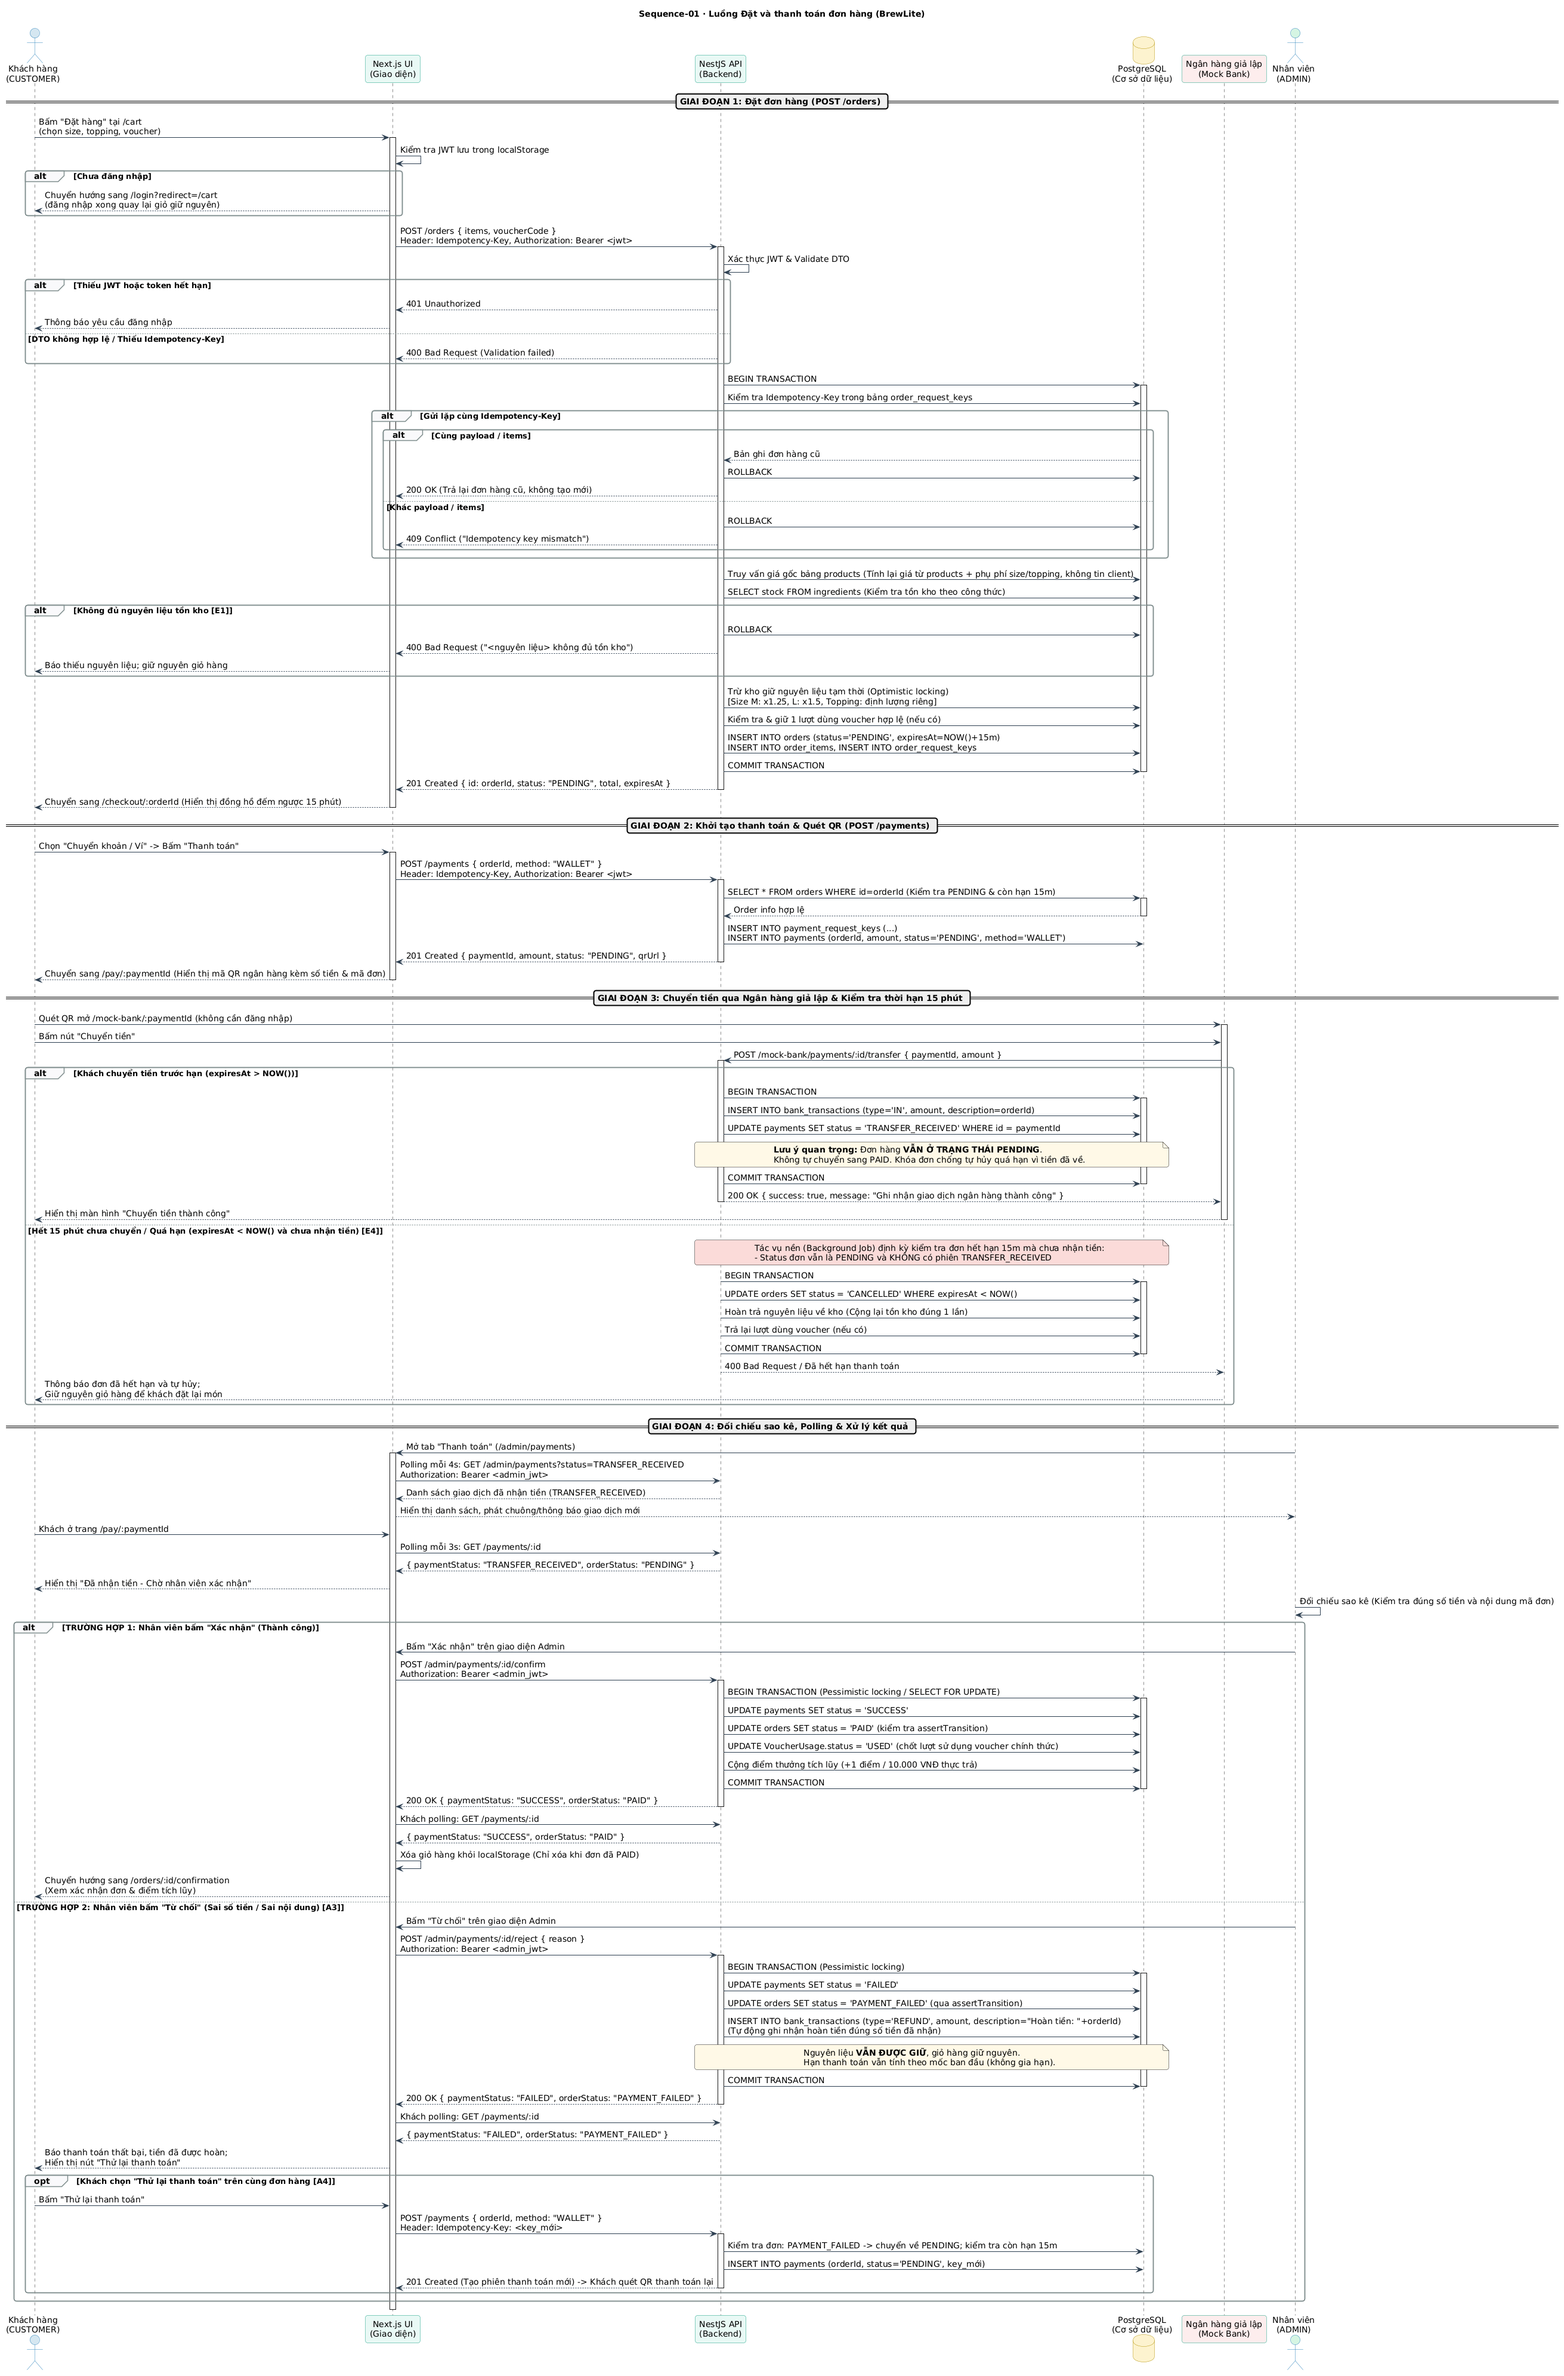
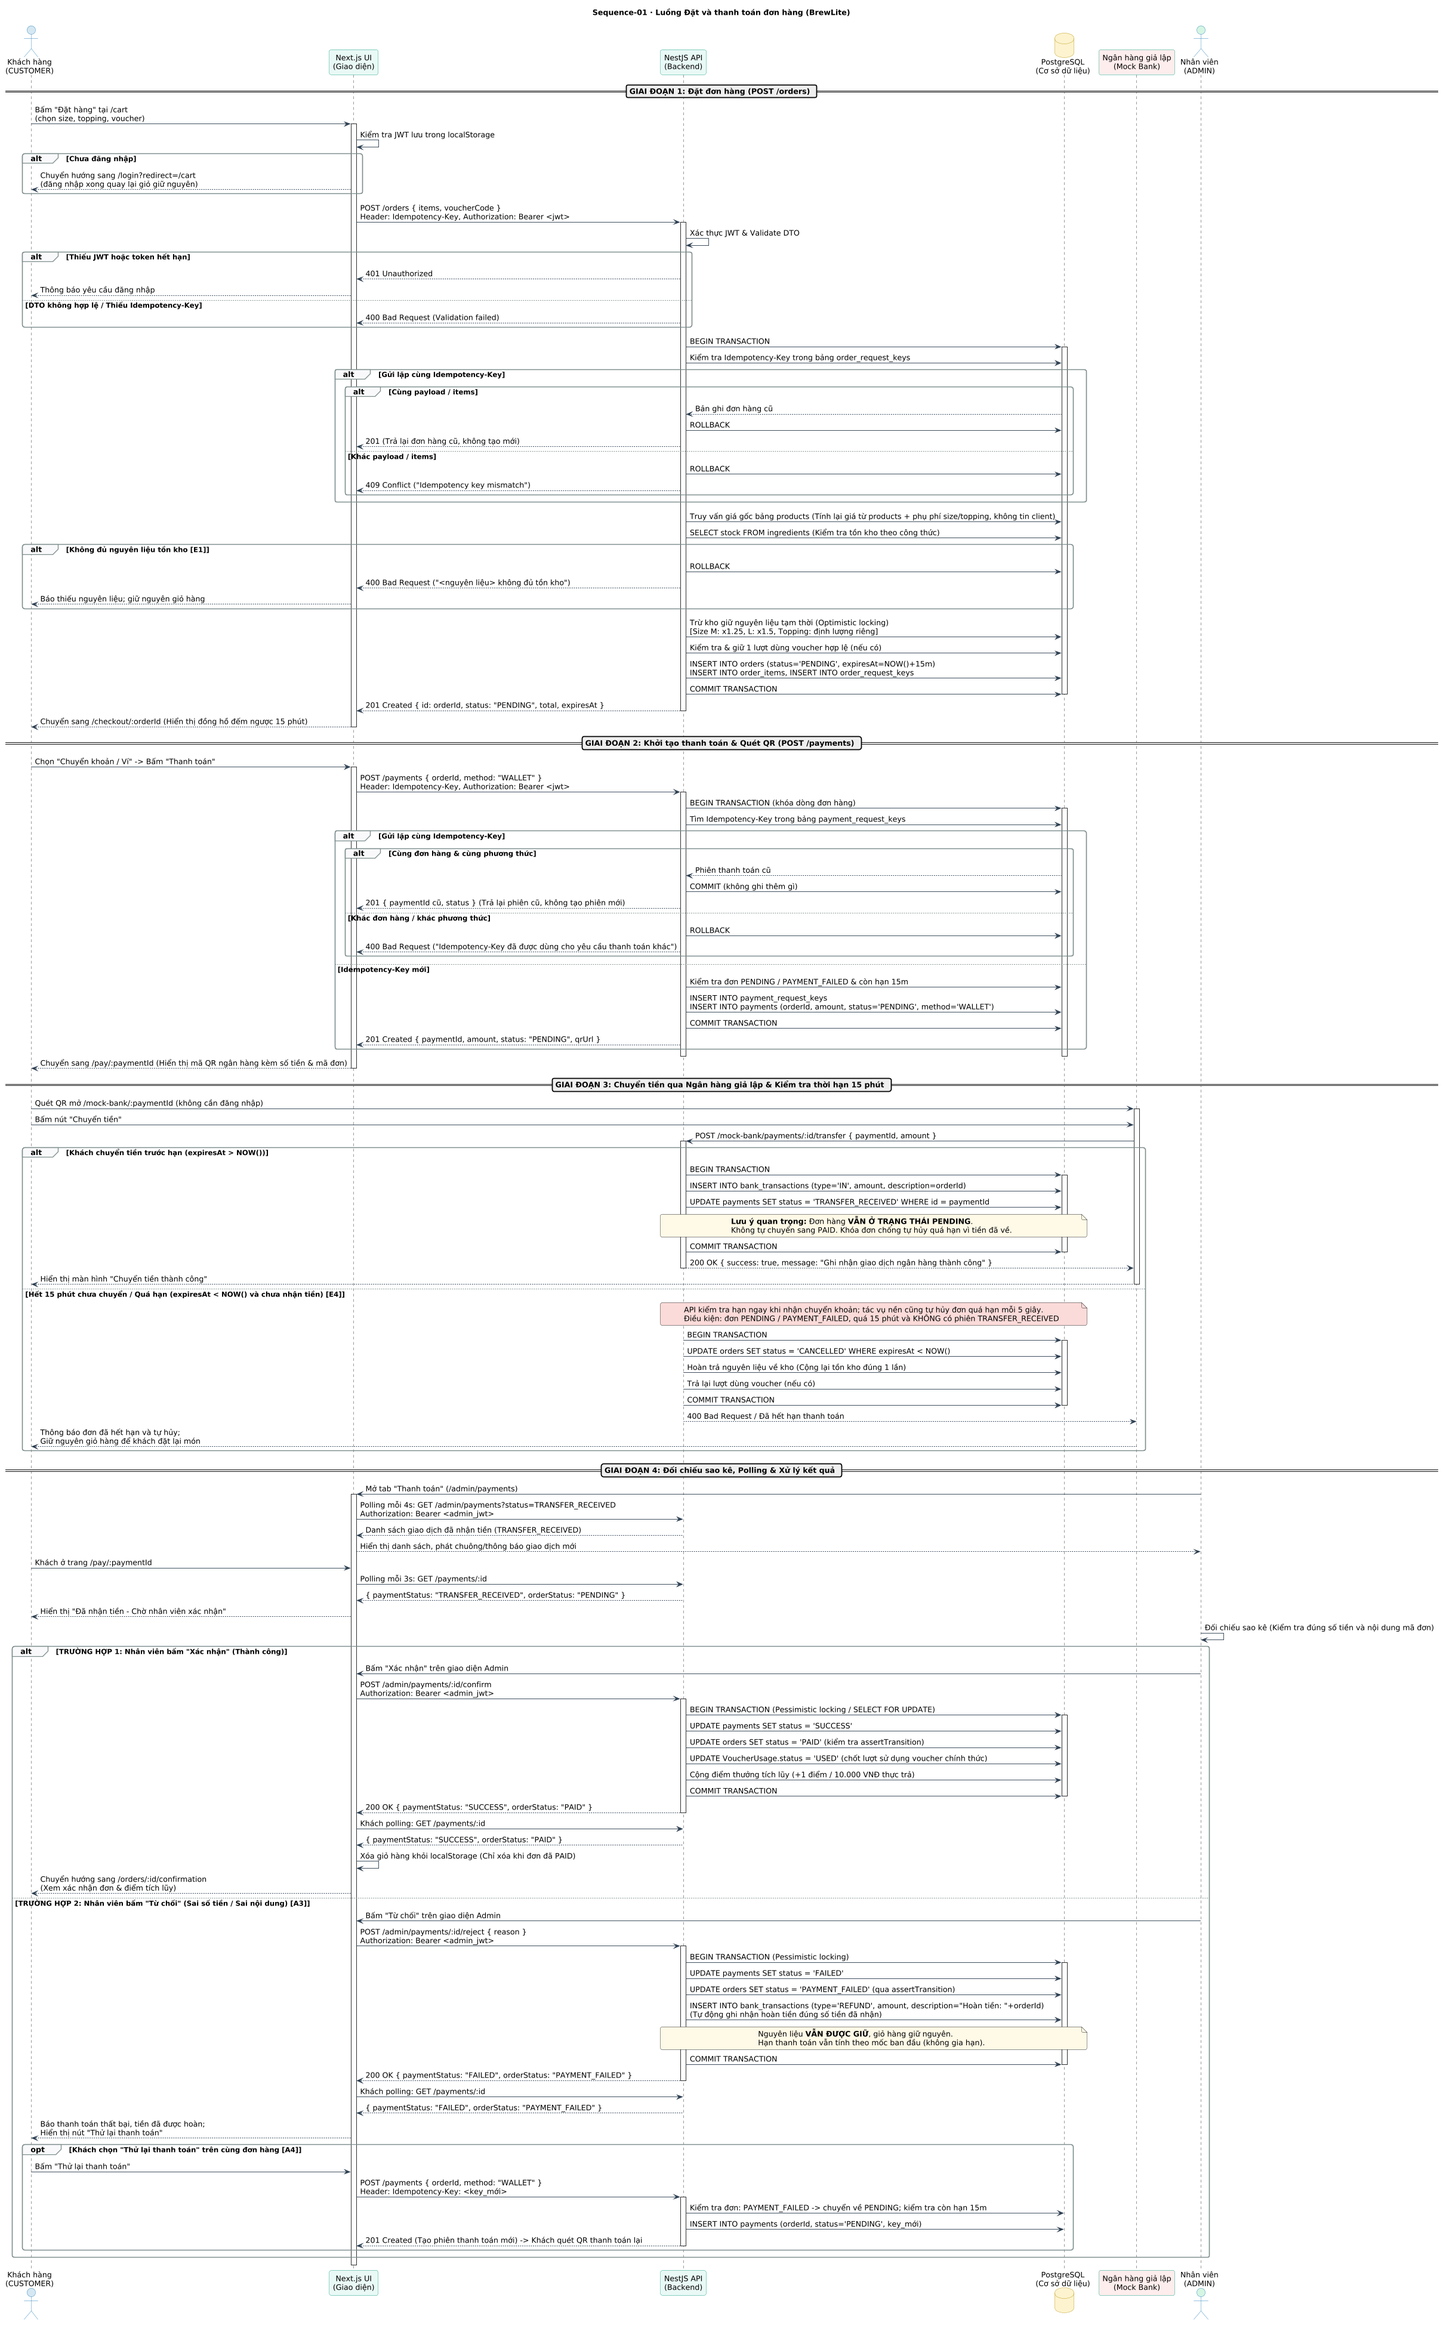
docs(diagrams): sửa giúp Tài - idempotency thanh toán và ma trận truy vết (Task 2.2)
- Giai đoạn 2: thêm alt cho POST /payments gửi lại cùng Idempotency-Key
  (cùng đơn và phương thức → trả phiên cũ; khác → 400), đúng code A1
- Đặt đơn gửi lại cùng key trả 201 (không phải 200), như test e2e A1
- Ghi chú hết hạn: API kiểm tra hạn khi nhận chuyển khoản, job nền chạy mỗi 5 giây
- scale 0.9 để PNG không bị plantuml.com cắt ở 4096 px; xuất lại PNG + SVG
- sequence.tex: thêm câu về chống trùng khi tạo phiên thanh toán
- traceability-matrix.md: thêm Sequence-01 cho FR-03..08, FR-10, FR-13,
  NFR-01, NFR-02 và mục Sequence-01 — Task 2.2

diff --git a/docs/diagrams/sequence.tex b/docs/diagrams/sequence.tex
@@ -34,6 +34,7 @@ Backend thực hiện:
 
 \paragraph{Giai đoạn 2: Khởi tạo thanh toán \& Quét QR (\texttt{POST /payments})}
 Khách hàng chọn phương thức \emph{Chuyển khoản / Ví} (\texttt{WALLET}) trên trang \texttt{/checkout/:orderId}. Giao diện gửi yêu cầu \texttt{POST /payments}. Backend xác thực đơn hàng thuộc quyền sở hữu của khách, đang ở trạng thái \texttt{PENDING} và còn hiệu lực trong 15 phút. Hệ thống ghi nhận khóa yêu cầu thanh toán vào bảng \texttt{payment\_request\_keys} và tạo bản ghi phiên thanh toán ở trạng thái \texttt{PENDING} với số tiền lấy từ đơn hàng, sinh đường dẫn QR và chuyển hướng khách sang màn hình thanh toán \texttt{/pay/:paymentId}.
+Nếu client gửi lại cùng \texttt{Idempotency-Key} (ví dụ do mạng chậm hoặc bấm đúp) cho cùng đơn và cùng phương thức, backend trả lại phiên thanh toán cũ, không tạo phiên mới; nếu key đã dùng cho đơn hoặc phương thức khác thì trả HTTP 400.
 
 \paragraph{Giai đoạn 3: Chuyển tiền qua Ngân hàng giả lập \& Kiểm tra thời hạn 15 phút}
 Khách hàng quét mã QR để mở trang ngân hàng giả lập (\texttt{/mock-bank/:paymentId}, trang mở không yêu cầu đăng nhập) và bấm \emph{Chuyển tiền}. Ngân hàng giả lập gọi \texttt{POST /mock-bank/payments/:id/transfer} sang API. Tùy theo thời điểm thực tế, hệ thống rẽ nhánh xử lý:

diff --git a/docs/traceability-matrix.md b/docs/traceability-matrix.md
@@ -6,21 +6,21 @@ Cập nhật dần theo từng task: yêu cầu → use-case / user story → th
 |---|---|---|---|---|
 | FR-01 | UC-01: Xem danh mục đồ uống (Menu) | docs/diagrams/usecase-overview.png; [Activity-01](diagrams/activity-checkout.svg); [Class-01] | | |
 | FR-02 | UC-02: Xem chi tiết & tùy chọn (Size/Topping) | docs/diagrams/usecase-overview.png; [Activity-01](diagrams/activity-checkout.svg); [Class-01] | | |
-| FR-03 | UC-03: Quản lý giỏ hàng (Cart); UC-CK: Đặt và thanh toán đơn hàng (Task 1.3) | docs/diagrams/usecase-overview.png, docs/diagrams/usecase-checkout.png; [Activity-01](diagrams/activity-checkout.svg) | | |
-| FR-04 | UC-04: Đăng ký & Đăng nhập (JWT); UC-CK: Đặt và thanh toán đơn hàng (Task 1.3) | docs/diagrams/usecase-overview.png, docs/diagrams/usecase-checkout.png; [Activity-01](diagrams/activity-checkout.svg); [Class-01] | | |
-| FR-05 | UC-05: Đặt đơn hàng (Giữ nguyên liệu 15p); UC-CK: Đặt và thanh toán đơn hàng (Task 1.3) | docs/diagrams/usecase-overview.png, docs/diagrams/usecase-checkout.png; [Activity-01](diagrams/activity-checkout.svg); [Class-01] | | |
-| FR-06 | UC-09: Quản lý & giữ tồn kho theo nguyên liệu, UC-14: Theo dõi tồn kho nguyên liệu & Cảnh báo; UC-CK: Đặt và thanh toán đơn hàng (Task 1.3) | docs/diagrams/usecase-overview.png, docs/diagrams/usecase-checkout.png; [Activity-01](diagrams/activity-checkout.svg); [Class-01] | | |
-| FR-07 | UC-06: Chuyển khoản qua Ngân hàng giả lập (QR), UC-10: Ghi nhận sao kê & Tự động hoàn tiền; UC-CK: Đặt và thanh toán đơn hàng (Task 1.3) | docs/diagrams/usecase-overview.png, docs/diagrams/usecase-checkout.png; [Activity-01](diagrams/activity-checkout.svg); [Class-01] | | |
-| FR-08 | UC-10: Ghi nhận sao kê, UC-11: Đối chiếu sao kê & Xác nhận thanh toán; UC-CK: Đặt và thanh toán đơn hàng (Task 1.3) | docs/diagrams/usecase-overview.png, docs/diagrams/usecase-checkout.png; [Activity-01](diagrams/activity-checkout.svg); [Class-01] | | |
+| FR-03 | UC-03: Quản lý giỏ hàng (Cart); UC-CK: Đặt và thanh toán đơn hàng (Task 1.3) | docs/diagrams/usecase-overview.png, docs/diagrams/usecase-checkout.png; [Activity-01](diagrams/activity-checkout.svg); [Sequence-01](diagrams/sequence-checkout.svg) | | |
+| FR-04 | UC-04: Đăng ký & Đăng nhập (JWT); UC-CK: Đặt và thanh toán đơn hàng (Task 1.3) | docs/diagrams/usecase-overview.png, docs/diagrams/usecase-checkout.png; [Activity-01](diagrams/activity-checkout.svg); [Class-01]; [Sequence-01](diagrams/sequence-checkout.svg) | | |
+| FR-05 | UC-05: Đặt đơn hàng (Giữ nguyên liệu 15p); UC-CK: Đặt và thanh toán đơn hàng (Task 1.3) | docs/diagrams/usecase-overview.png, docs/diagrams/usecase-checkout.png; [Activity-01](diagrams/activity-checkout.svg); [Class-01]; [Sequence-01](diagrams/sequence-checkout.svg) | | |
+| FR-06 | UC-09: Quản lý & giữ tồn kho theo nguyên liệu, UC-14: Theo dõi tồn kho nguyên liệu & Cảnh báo; UC-CK: Đặt và thanh toán đơn hàng (Task 1.3) | docs/diagrams/usecase-overview.png, docs/diagrams/usecase-checkout.png; [Activity-01](diagrams/activity-checkout.svg); [Class-01]; [Sequence-01](diagrams/sequence-checkout.svg) | | |
+| FR-07 | UC-06: Chuyển khoản qua Ngân hàng giả lập (QR), UC-10: Ghi nhận sao kê & Tự động hoàn tiền; UC-CK: Đặt và thanh toán đơn hàng (Task 1.3) | docs/diagrams/usecase-overview.png, docs/diagrams/usecase-checkout.png; [Activity-01](diagrams/activity-checkout.svg); [Class-01]; [Sequence-01](diagrams/sequence-checkout.svg) | | |
+| FR-08 | UC-10: Ghi nhận sao kê, UC-11: Đối chiếu sao kê & Xác nhận thanh toán; UC-CK: Đặt và thanh toán đơn hàng (Task 1.3) | docs/diagrams/usecase-overview.png, docs/diagrams/usecase-checkout.png; [Activity-01](diagrams/activity-checkout.svg); [Class-01]; [Sequence-01](diagrams/sequence-checkout.svg) | | |
 | FR-09 | UC-08: Hủy đơn hàng / Gửi yêu cầu hủy, UC-12: Duyệt yêu cầu hủy đơn & Hoàn tiền; UC-CK: Đặt và thanh toán đơn hàng (Task 1.3) | docs/diagrams/usecase-overview.png, docs/diagrams/usecase-checkout.png; [Class-01] | | |
-| FR-10 | UC-05, UC-08, UC-11, UC-12: Máy trạng thái đơn & Tự hủy quá hạn; UC-CK: Đặt và thanh toán đơn hàng (Task 1.3) | docs/diagrams/usecase-overview.png, docs/diagrams/usecase-checkout.png; [Activity-01](diagrams/activity-checkout.svg); [Class-01] | | |
+| FR-10 | UC-05, UC-08, UC-11, UC-12: Máy trạng thái đơn & Tự hủy quá hạn; UC-CK: Đặt và thanh toán đơn hàng (Task 1.3) | docs/diagrams/usecase-overview.png, docs/diagrams/usecase-checkout.png; [Activity-01](diagrams/activity-checkout.svg); [Class-01]; [Sequence-01](diagrams/sequence-checkout.svg) | | |
 | FR-11 | UC-13: Cập nhật tiến trình pha chế (Bảng Barista) | docs/diagrams/usecase-overview.png; [Class-01] | | |
 | FR-12 | UC-07: Theo dõi trạng thái đơn & Lịch sử cá nhân, UC-15: Tra cứu lịch sử mọi đơn & Sao kê | docs/diagrams/usecase-overview.png; [Class-01] | | |
-| FR-13 | UC-05, UC-11: Khuyến mãi (Voucher) & Điểm thưởng; UC-CK: Đặt và thanh toán đơn hàng (Task 1.3) | docs/diagrams/usecase-overview.png, docs/diagrams/usecase-checkout.png; [Activity-01](diagrams/activity-checkout.svg); [Class-01] | | |
+| FR-13 | UC-05, UC-11: Khuyến mãi (Voucher) & Điểm thưởng; UC-CK: Đặt và thanh toán đơn hàng (Task 1.3) | docs/diagrams/usecase-overview.png, docs/diagrams/usecase-checkout.png; [Activity-01](diagrams/activity-checkout.svg); [Class-01]; [Sequence-01](diagrams/sequence-checkout.svg) | | |
 | FR-14 | UC-16: Quản lý menu, giá & nhập kho nguyên liệu (Won't) | docs/diagrams/usecase-overview.png | | |
 | FR-15 | UC-17: Đổi điểm thưởng lấy voucher / đồ uống (Won't) | docs/diagrams/usecase-overview.png | | |
-| NFR-01 | UC-05, UC-09: Hiệu năng hệ thống & Xử lý đồng thời có kiểm chứng; UC-CK: Đặt và thanh toán đơn hàng (Task 1.3) | docs/diagrams/usecase-checkout.png; [Activity-01](diagrams/activity-checkout.svg) | | |
-| NFR-02 | UC-04, UC-09, UC-10, UC-11: Bảo mật dữ liệu & Phân quyền (Security, Locking); UC-CK: Đặt và thanh toán đơn hàng (Task 1.3) | docs/diagrams/usecase-checkout.png; [Activity-01](diagrams/activity-checkout.svg) | | |
+| NFR-01 | UC-05, UC-09: Hiệu năng hệ thống & Xử lý đồng thời có kiểm chứng; UC-CK: Đặt và thanh toán đơn hàng (Task 1.3) | docs/diagrams/usecase-checkout.png; [Activity-01](diagrams/activity-checkout.svg); [Sequence-01](diagrams/sequence-checkout.svg) | | |
+| NFR-02 | UC-04, UC-09, UC-10, UC-11: Bảo mật dữ liệu & Phân quyền (Security, Locking); UC-CK: Đặt và thanh toán đơn hàng (Task 1.3) | docs/diagrams/usecase-checkout.png; [Activity-01](diagrams/activity-checkout.svg); [Sequence-01](diagrams/sequence-checkout.svg) | | |
 | NFR-03 | UC-01..UC-08: Tính khả dụng & Mobile-first PWA tối thiểu; UC-CK: Đặt và thanh toán đơn hàng (Task 1.3) | docs/diagrams/usecase-checkout.png; [Activity-01](diagrams/activity-checkout.svg) | | |
 | NFR-04 | Toàn hệ thống: Khả năng triển khai Docker & CI/CD | | | |
 
@@ -36,6 +36,16 @@ và tự hủy sau 15 phút chưa nhận tiền.
 
 Liên kết thiết kế thể hiện phạm vi được mô hình hóa; không xác nhận code/API
 hoặc kiểm thử đã được triển khai.
+
+### Sequence-01 — Task 2.2
+
+Sơ đồ tuần tự cho use-case UC-CK "Đặt và thanh toán đơn hàng": đặt đơn (`POST /orders`),
+tạo phiên thanh toán (`POST /payments`), chuyển tiền qua ngân hàng giả lập, nhân viên
+xác nhận/từ chối, thử lại và tự hủy khi quá hạn. Có Idempotency-Key cho cả đặt đơn và thanh toán.
+
+- [Nguồn PlantUML](diagrams/sequence-checkout.puml)
+- [Ảnh SVG](diagrams/sequence-checkout.svg) · [Ảnh PNG](diagrams/sequence-checkout.png)
+- [Thuyết minh LaTeX](diagrams/sequence.tex)
 
 ## Class-01 (Task 2.3)
 
